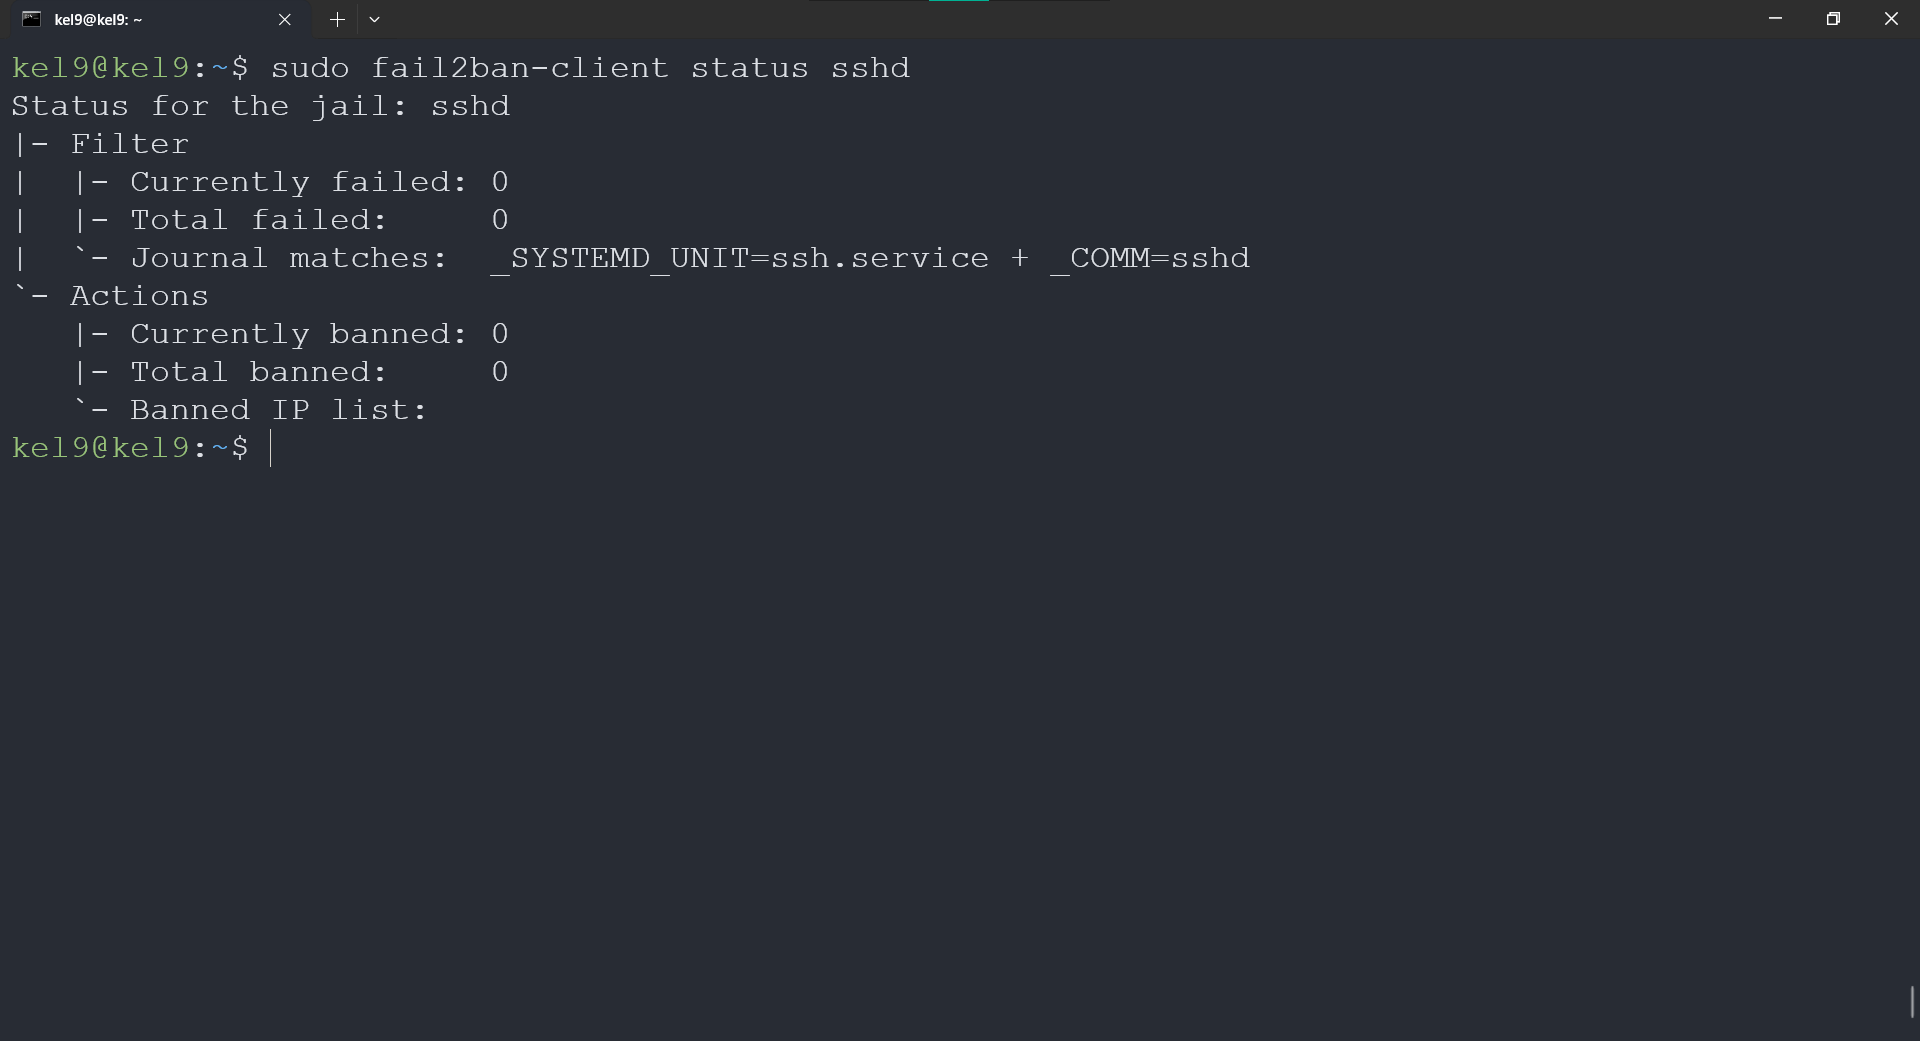
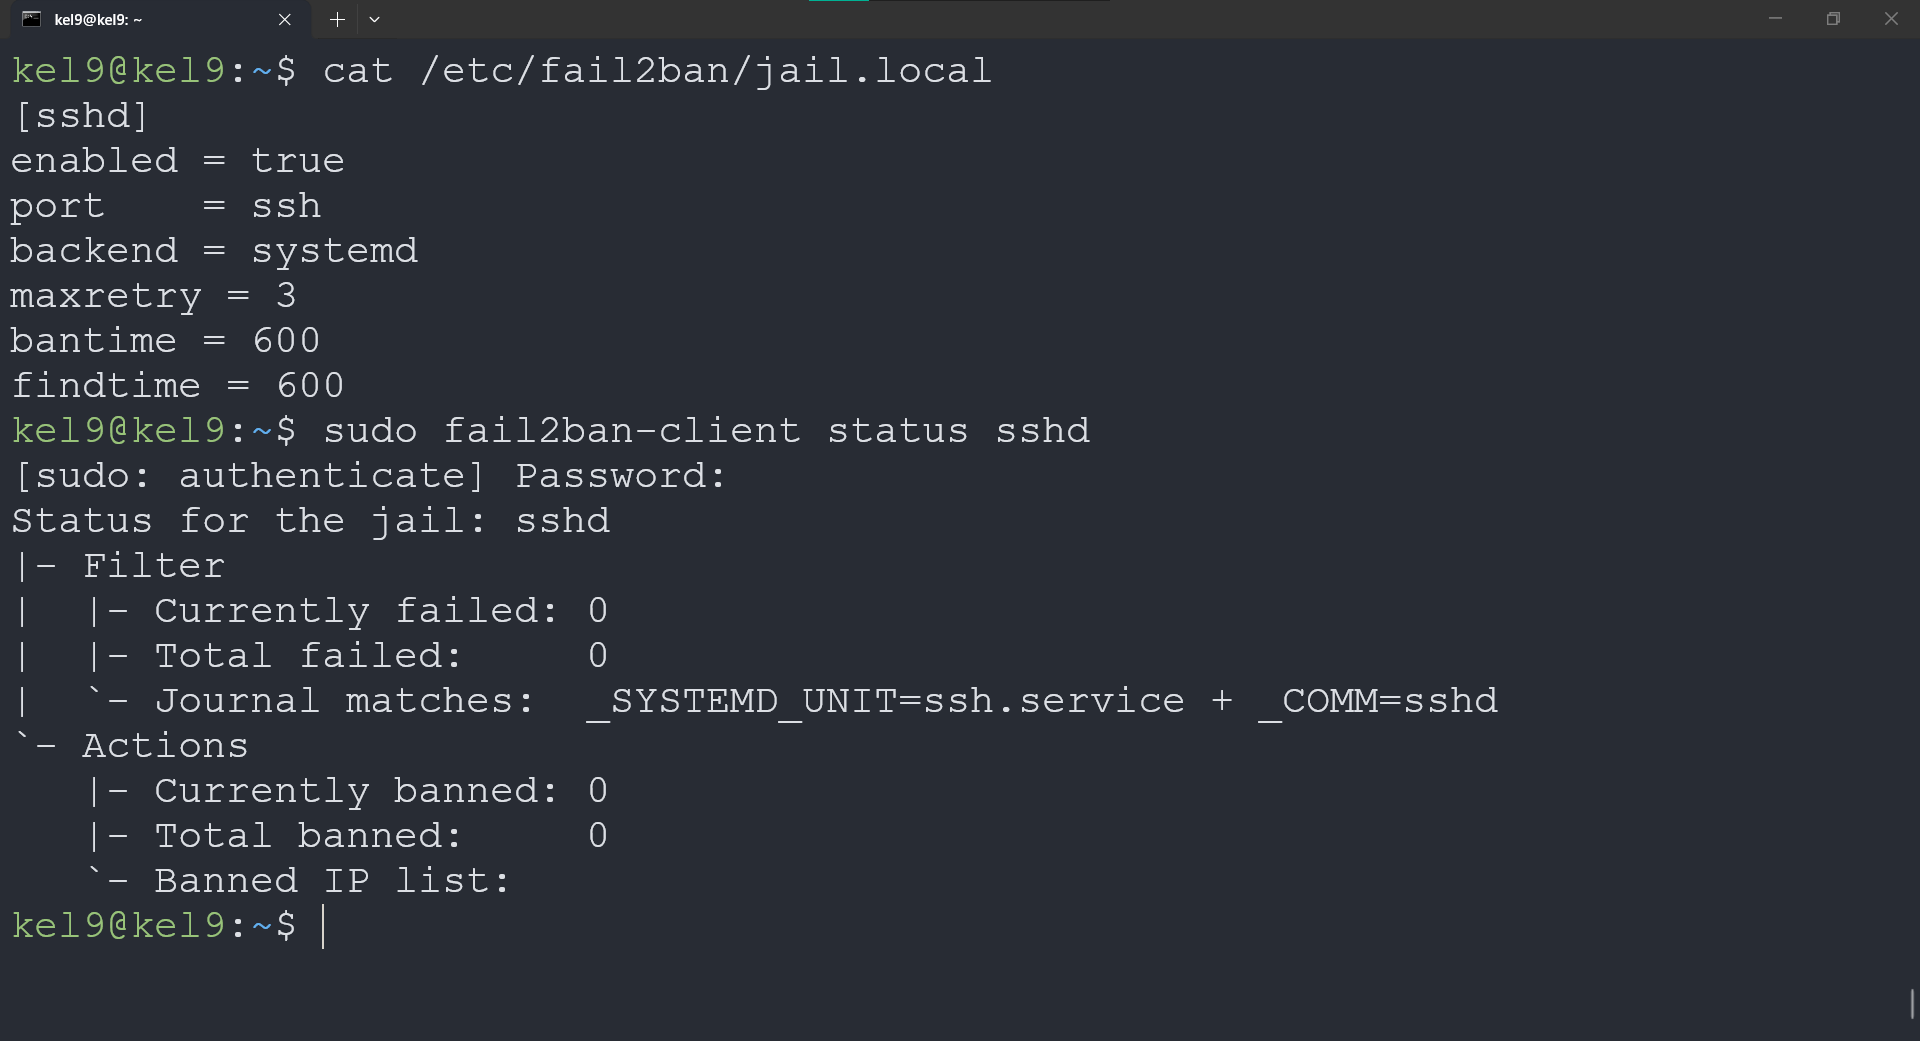
edit image and desc

diff --git a/Docs/blueteam/hardening_checklist.md b/Docs/blueteam/hardening_checklist.md
@@ -1,24 +1,25 @@
 # Checklist Hardening Target Node Replika (Blue Team)
+
 **Kelompok:** Kelompok 9 - Kelas B
 **Target Node:** Ubuntu Server - Replika Backend Smart Soil Monitoring Kopi (`192.168.9.70`)
 
-Dokumen ini memuat implementasi **9 kontrol hardening** yang tersebar pada 3 kategori (Access & Authentication, Service & Attack Surface, serta Data & Application) beserta bukti *Before vs After*.
+Dokumen ini memuat implementasi **9 kontrol hardening** yang tersebar pada 3 kategori (Access & Authentication, Service & Attack Surface, serta Data & Application) beserta bukti _Before vs After_.
 
 ---
 
 ## Ringkasan Status Hardening
 
-| Kode | Kategori | Kontrol Hardening yang Diterapkan | Status | Lokasi Bukti |
-| :---: | :--- | :--- | :---: | :--- |
-| **A1** | Access & Auth | Nonaktifkan login `root` langsung pada SSH (`PermitRootLogin no`) | Selesai | `evidence/a1_a2_ssh_after.png` |
-| **A2** | Access & Auth | Penerapan *SSH Key-Based Authentication* & penonaktifan login password | Selesai | `evidence/a1_a2_ssh_denied.png` |
-| **A3** | Access & Auth | Pembatasan percobaan login (*rate-limiting*) SSH menggunakan `fail2ban` | Selesai | `evidence/a3_fail2ban_after.png` |
+|  Kode  | Kategori          | Kontrol Hardening yang Diterapkan                                                         | Status  | Lokasi Bukti                           |
+| :----: | :---------------- | :---------------------------------------------------------------------------------------- | :-----: | :------------------------------------- |
+| **A1** | Access & Auth     | Nonaktifkan login `root` langsung pada SSH (`PermitRootLogin no`)                         | Selesai | `evidence/a1_a2_ssh_after.png`         |
+| **A2** | Access & Auth     | Penerapan _SSH Key-Based Authentication_ & penonaktifan login password                    | Selesai | `evidence/a1_a2_ssh_denied.png`        |
+| **A3** | Access & Auth     | Pembatasan percobaan login (_rate-limiting_) SSH menggunakan `fail2ban`                   | Selesai | `evidence/a3_fail2ban_after.png`       |
 | **B1** | Service & Surface | Penonaktifan service tidak terpakai & pengikatan PostgreSQL (`5432`) hanya ke `localhost` | Selesai | `evidence/b1_postgres_local_after.png` |
-| **B2** | Service & Surface | Konfigurasi *Host Firewall* (`ufw`) dengan metode *whitelist* (hanya Port `22` & `5000`) | Selesai | `evidence/b2_ufw_after.png` |
-| **B3** | Service & Surface | Pembaruan & *patching* paket Sistem Operasi Ubuntu Server ke versi aman | Selesai | `evidence/b3_patch_after.png` |
-| **C1** | Data & App | Penerapan *Least-Privilege* pada user Database PostgreSQL (`soil_app_user`) | Selesai | `evidence/c1_db_role_after.png` |
-| **C2** | Data & App | Pemindahan kredensial DB & token API dari *hardcoded* ke `.env` (`chmod 600`) | Selesai | `evidence/c2_env_after.png` |
-| **C3** | Data & App | Validasi rentang input telemetri tanah, otorisasi `X-API-Key`, & *security logging* | Selesai | `evidence/c3_api_log_after.png` |
+| **B2** | Service & Surface | Konfigurasi _Host Firewall_ (`ufw`) dengan metode _whitelist_ (hanya Port `22` & `5000`)  | Selesai | `evidence/b2_ufw_after.png`            |
+| **B3** | Service & Surface | Pembaruan & _patching_ paket Sistem Operasi Ubuntu Server ke versi aman                   | Selesai | `evidence/b3_patch_after.png`          |
+| **C1** | Data & App        | Penerapan _Least-Privilege_ pada user Database PostgreSQL (`soil_app_user`)               | Selesai | `evidence/c1_db_role_after.png`        |
+| **C2** | Data & App        | Pemindahan kredensial DB & token API dari _hardcoded_ ke `.env` (`chmod 600`)             | Selesai | `evidence/c2_env_after.png`            |
+| **C3** | Data & App        | Validasi rentang input telemetri tanah, otorisasi `X-API-Key`, & _security logging_       | Selesai | `evidence/c3_api_log_after.png`        |
 
 ---
 
@@ -27,17 +28,19 @@ Dokumen ini memuat implementasi **9 kontrol hardening** yang tersebar pada 3 kat
 ### Kategori A: Access & Authentication
 
 #### 1. Kontrol A1 & A2: Penonaktifan Root Login & Implementasi SSH Key-Based Auth
-* **Kondisi Sebelum (Before):** Konfigurasi `/etc/ssh/sshd_config` masih mengizinkan autentikasi password dan login langsung ke akun `root`.
+
+- **Kondisi Sebelum (Before):** Konfigurasi `/etc/ssh/sshd_config` masih mengizinkan autentikasi password dan login langsung ke akun `root`.
   ![SSH Before](evidence/a1_a2_ssh_before.png)
-* **Kondisi Sesudah (After):** Parameter diubah menjadi `PermitRootLogin no` dan `PasswordAuthentication no`.
+- **Kondisi Sesudah (After):** Parameter diubah menjadi `PermitRootLogin no` dan `PasswordAuthentication no`.
   ![SSH After](evidence/a1_a2_ssh_after.png)
-* **Bukti Percobaan Login Gagal:** Percobaan login tanpa *private key* yang sah dari `192.168.9.10` langsung ditolak oleh server (`Permission denied (publickey)`).
+- **Bukti Percobaan Login Gagal:** Percobaan login tanpa _private key_ yang sah dari `192.168.9.10` langsung ditolak oleh server (`Permission denied (publickey)`).
   ![SSH Login Denied](evidence/a1_a2_ssh_denied.png)
 
 #### 2. Kontrol A3: Rate-Limit Percobaan Login dengan `fail2ban`
-* **Kondisi Sebelum (Before):** Layanan `fail2ban` belum aktif sehingga percobaan *brute-force* tidak diblokir otomatis.
+
+- **Kondisi Sebelum (Before):** Layanan `fail2ban` belum aktif sehingga percobaan _brute-force_ tidak diblokir otomatis.
   ![Fail2ban Before](evidence/a3_fail2ban_before.png)
-* **Kondisi Sesudah (After):** Jail `[sshd]` diaktifkan dengan batas `maxretry = 3` dan `bantime = 600`.
+- **Kondisi Sesudah (After):** Jail `[sshd]` diaktifkan dengan batas `maxretry = 3` dan `bantime = 600`.
   ![Fail2ban After](evidence/a3_fail2ban_after.png)
 
 ---
@@ -45,19 +48,21 @@ Dokumen ini memuat implementasi **9 kontrol hardening** yang tersebar pada 3 kat
 ### Kategori B: Service & Attack Surface
 
 #### 3. Kontrol B1 & B2: Isolasi Port Layanan & Whitelist Firewall (`ufw`)
-* **Kondisi Sebelum (Before):** Hasil pemindaian `nmap` dari Attacker Node (`192.168.9.10`) menunjukkan port database PostgreSQL (`5432`) terbuka ke jaringan eksternal dan firewall belum aktif.
+
+- **Kondisi Sebelum (Before):** Hasil pemindaian `nmap` dari Attacker Node (`192.168.9.10`) menunjukkan port database PostgreSQL (`5432`) terbuka ke jaringan eksternal dan firewall belum aktif.
   ![Nmap Before](evidence/b1_b2_nmap_before.png)
-* **Kondisi Sesudah - Isolasi PostgreSQL (After B1):** Database diatur hanya mendengarkan pada `127.0.0.1` (`localhost`) karena hanya diakses oleh service Flask lokal.
+- **Kondisi Sesudah - Isolasi PostgreSQL (After B1):** Database diatur hanya mendengarkan pada `127.0.0.1` (`localhost`) karena hanya diakses oleh service Flask lokal.
   ![Postgres Localhost](evidence/b1_postgres_local_after.png)
-* **Kondisi Sesudah - Aturan Firewall (After B2):** `ufw` diaktifkan dengan kebijakan *default deny incoming* dan hanya membuka port `22/tcp` serta `5000/tcp`.
+- **Kondisi Sesudah - Aturan Firewall (After B2):** `ufw` diaktifkan dengan kebijakan _default deny incoming_ dan hanya membuka port `22/tcp` serta `5000/tcp`.
   ![UFW Status](evidence/b2_ufw_after.png)
-* **Bukti Nmap Scan After:** Port `5432` tidak lagi terekspos ke jaringan luar (*filtered*).
+- **Bukti Nmap Scan After:** Port `5432` tidak lagi terekspos ke jaringan luar (_filtered_).
   ![Nmap After](evidence/b1_b2_nmap_after.png)
 
 #### 4. Kontrol B3: Update & Patch Sistem Operasi
-* **Kondisi Sebelum (Before):** Terdapat paket sistem pada Ubuntu Server yang membutuhkan pembaruan keamanan.
+
+- **Kondisi Sebelum (Before):** Terdapat paket sistem pada Ubuntu Server yang membutuhkan pembaruan keamanan.
   ![Patch Before](evidence/b3_patch_before.png)
-* **Kondisi Sesudah (After):** Seluruh paket telah diperbarui ke versi aman melalui `apt upgrade`.
+- **Kondisi Sesudah (After):** Seluruh paket telah diperbarui ke versi aman melalui `apt upgrade`.
   ![Patch After](evidence/b3_patch_after.png)
 
 ---
@@ -65,27 +70,34 @@ Dokumen ini memuat implementasi **9 kontrol hardening** yang tersebar pada 3 kat
 ### Kategori C: Data & Application
 
 #### 5. Kontrol C1: Least-Privilege pada User Database PostgreSQL
-* **Kondisi Sebelum (Before):** Aplikasi backend menggunakan akun superuser `postgres` yang memiliki hak penuh untuk menghapus tabel maupun database.
+
+- **Kondisi Sebelum (Before):** Aplikasi backend menggunakan akun superuser `postgres` yang memiliki hak penuh untuk menghapus tabel maupun database.
   ![DB Role Before](evidence/c1_db_role_before.png)
-* **Kondisi Sesudah (After):** Dibuat akun khusus `soil_app_user` yang hanya diberi hak `SELECT` dan `INSERT` (`ar`) pada tabel `soil_telemetry`.
+- **Kondisi Sesudah (After):** Dibuat akun khusus `soil_app_user` yang hanya diberi hak `SELECT` dan `INSERT` (`ar`) pada tabel `soil_telemetry`.
   ![DB Role After](evidence/c1_db_role_after.png)
 
 #### 6. Kontrol C2: Penyimpanan Kredensial pada Environment Variable (`.env`)
-* **Kondisi Sebelum (Before):** Kredensial koneksi database tertulis langsung (*hardcoded*) di dalam kode sumber aplikasi.
+
+- **Kondisi Sebelum (Before):** Kredensial koneksi database tertulis langsung (_hardcoded_) di dalam kode sumber aplikasi.
   ![Env Before](evidence/c2_env_before.png)
-* **Kondisi Sesudah (After):** Kredensial dan token API dipindahkan ke file `.env` dengan hak akses ketat `-rw-------` (`chmod 600`).
+- **Kondisi Sesudah (After):** Kredensial dan token API dipindahkan ke file `.env` dengan hak akses ketat `-rw-------` (`chmod 600`).
   ![Env After](evidence/c2_env_after.png)
 
 #### 7. Kontrol C3: Validasi Input Endpoint HTTP API & Pencatatan Log Mencurigakan
-* **Kondisi Sebelum (Before):** Endpoint `/api/telemetry` menerima kiriman data dari siapa saja tanpa pengecekan token ESP32 dan tanpa memvalidasi batas wajar nilai pH/kelembaban tanah.
+
+- **Kondisi Sebelum (Before):** Endpoint `/api/telemetry` menerima kiriman data dari siapa saja tanpa pengecekan token ESP32 dan tanpa memvalidasi batas wajar nilai pH/kelembaban tanah.
   ![API Validation Before](evidence/c3_api_before.png)
-* **Kondisi Sesudah (After):** Endpoint memeriksa header `X-API-Key`, menolak nilai sensor di luar batas wajar (`422 Unprocessable Entity`), menggunakan *parameterized query*, dan mencatat setiap anomali ke `soil_security.log`.
+- **Kondisi Sesudah (After):** Endpoint memeriksa header `X-API-Key`, menolak nilai sensor di luar batas wajar (`422 Unprocessable Entity`), menggunakan _parameterized query_, dan mencatat setiap anomali ke `soil_security.log`.
   ![API Validation After](evidence/c3_api_log_after.png)
 
 ---
 
 ## Ringkasan Baseline Traffic Normal (Security Onion - `192.168.9.90`)
-Pemantauan trafik normal pada jaringan internal `siber` saat pengiriman data telemetri dari simulator ESP32 ke endpoint HTTP API Target Node (`192.168.9.70:5000`):
-* **Protokol Dominan:** TCP (HTTP pada port `5000` untuk API/Dashboard telemetri tanah dan SSH pada port `22` untuk administrasi).
-* **Frekuensi Pengiriman Normal:** 1 request `HTTP POST /api/telemetry` setiap **10 detik** dengan ukuran payload JSON rata-rata **95–180 bytes** (berisi `device_id`, `soil_moisture`, `soil_ph`, dan `temperature`).
+
+Pemantauan trafik normal pada jaringan internal `siber` melalui **Kibana (Zeek Logs)** saat simulator sensor (`192.168.9.10`) mengirimkan data telemetri tanah secara berkala ke endpoint HTTP API Target Node (`192.168.9.70:5000`):
+
+- **Filter Observasi Kibana:** Query `"192.168.9.70" AND 5000` digunakan untuk mengisolasi trafik layanan aplikasi IoT dari trafik manajemen lainnya (seperti SSH port `22`).
+- **Identitas Koneksi pada Log Zeek:** Tercatat komunikasi TCP/HTTP normal dari `id.orig_h: "192.168.9.10"` (ephemeral port) menuju `id.resp_h: "192.168.9.70"` pada `id.resp_p: 5000` (`virtual_host: 192.168.9.70`).
+- **Pola & Interval Pengiriman Normal:** Simulator mengirimkan 1 request `HTTP POST /api/telemetry` setiap **10 detik** secara konsisten—terverifikasi langsung pada selisih _timestamp_ log berurutan di Kibana (`05:42:59.441` ke `05:43:09.543`). Pada grafik histogram (`@timestamp per 30 seconds`), 3 kali pengiriman dalam jendela 30 detik menghasilkan sekitar 6 _events_ (gabungan pencatatan `http.log` dan `conn.log` oleh sensor Zeek).
+
 ![Baseline Traffic Security Onion](evidence/baseline_traffic_so.png)
